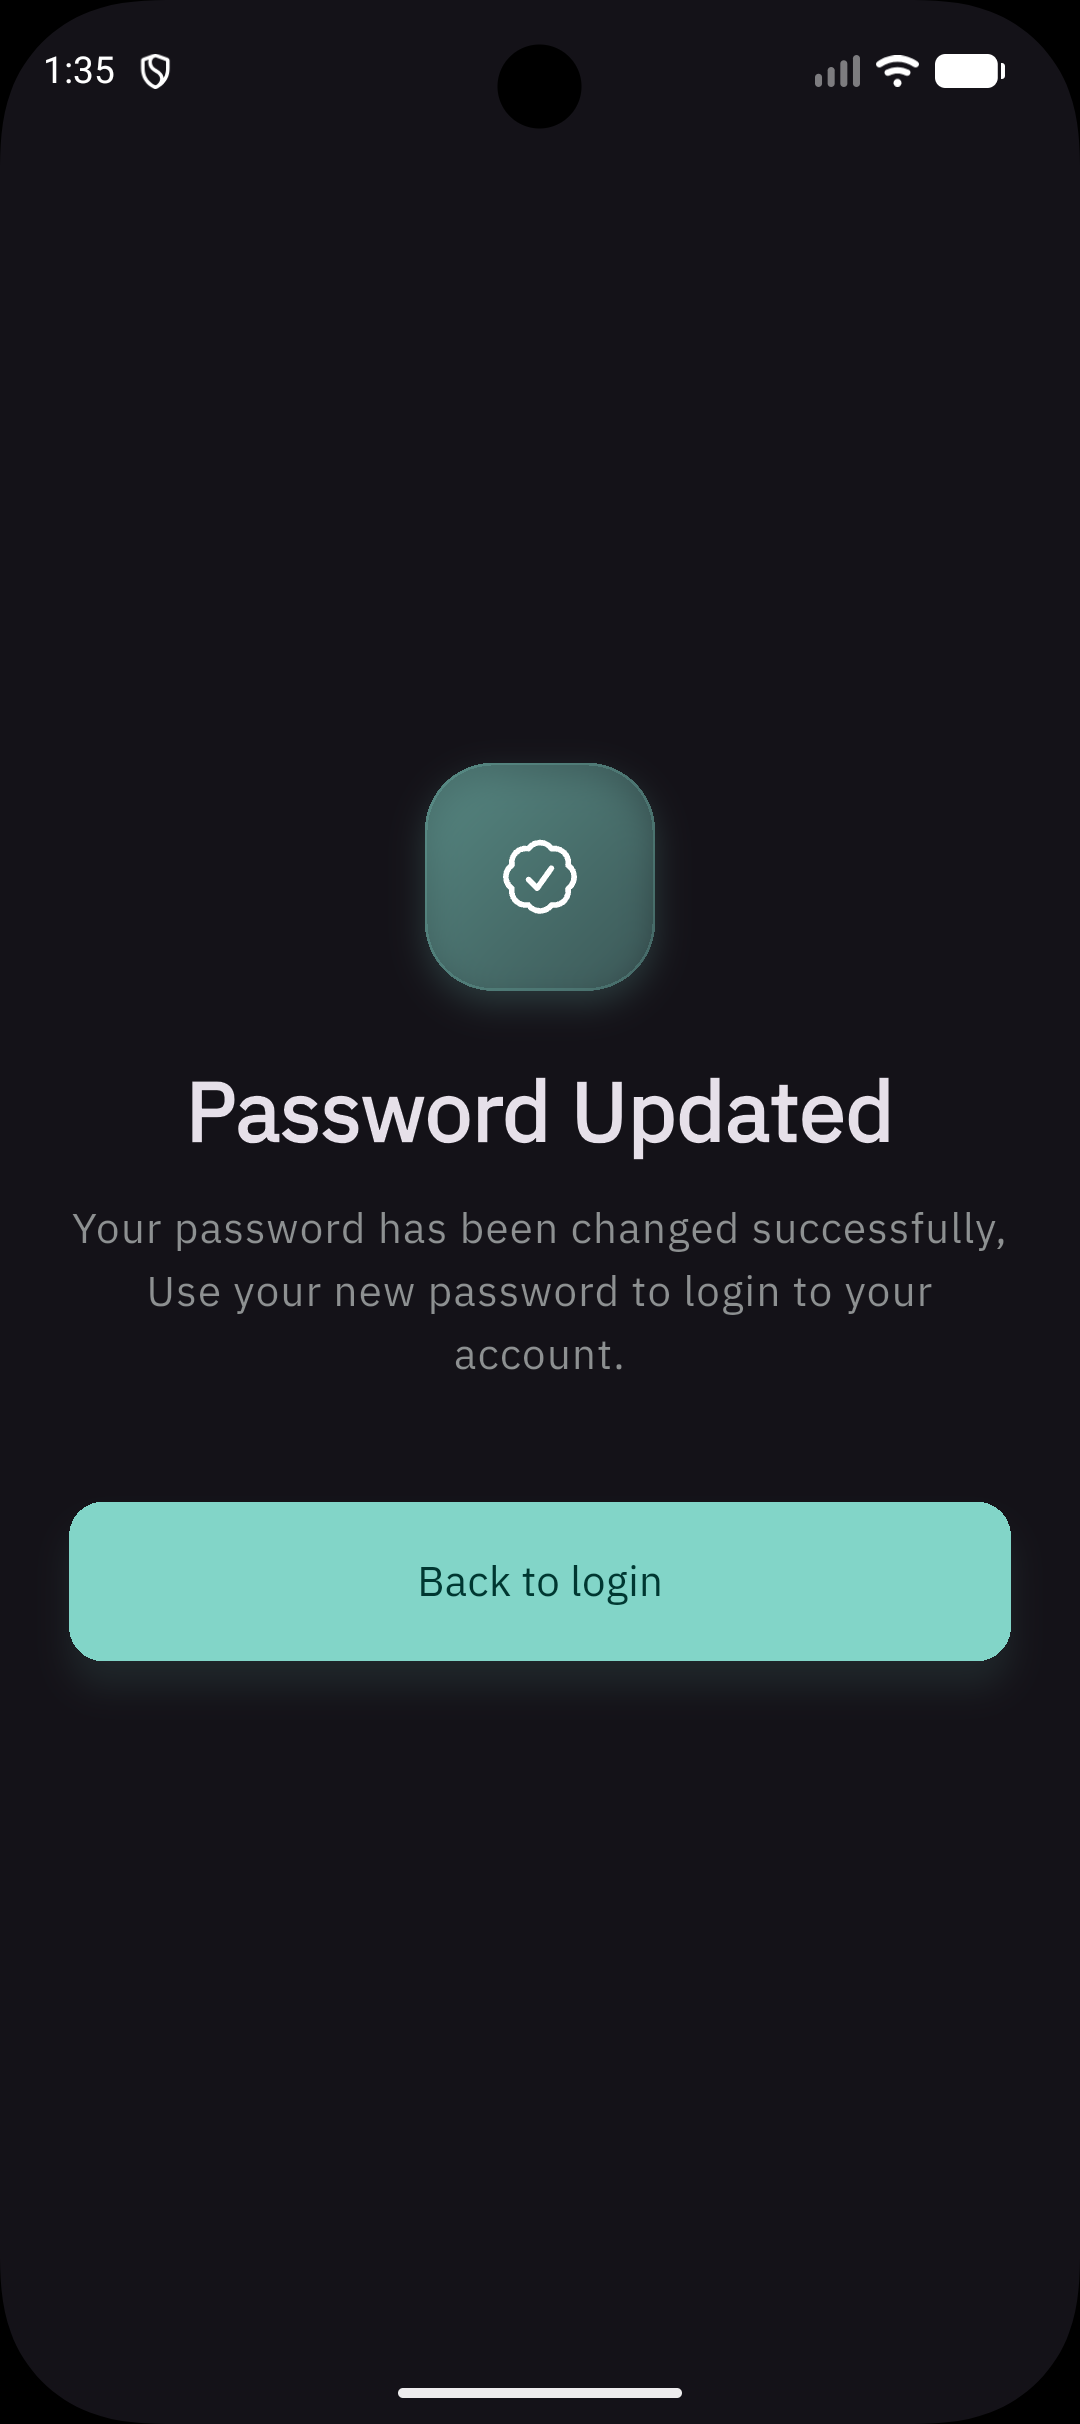
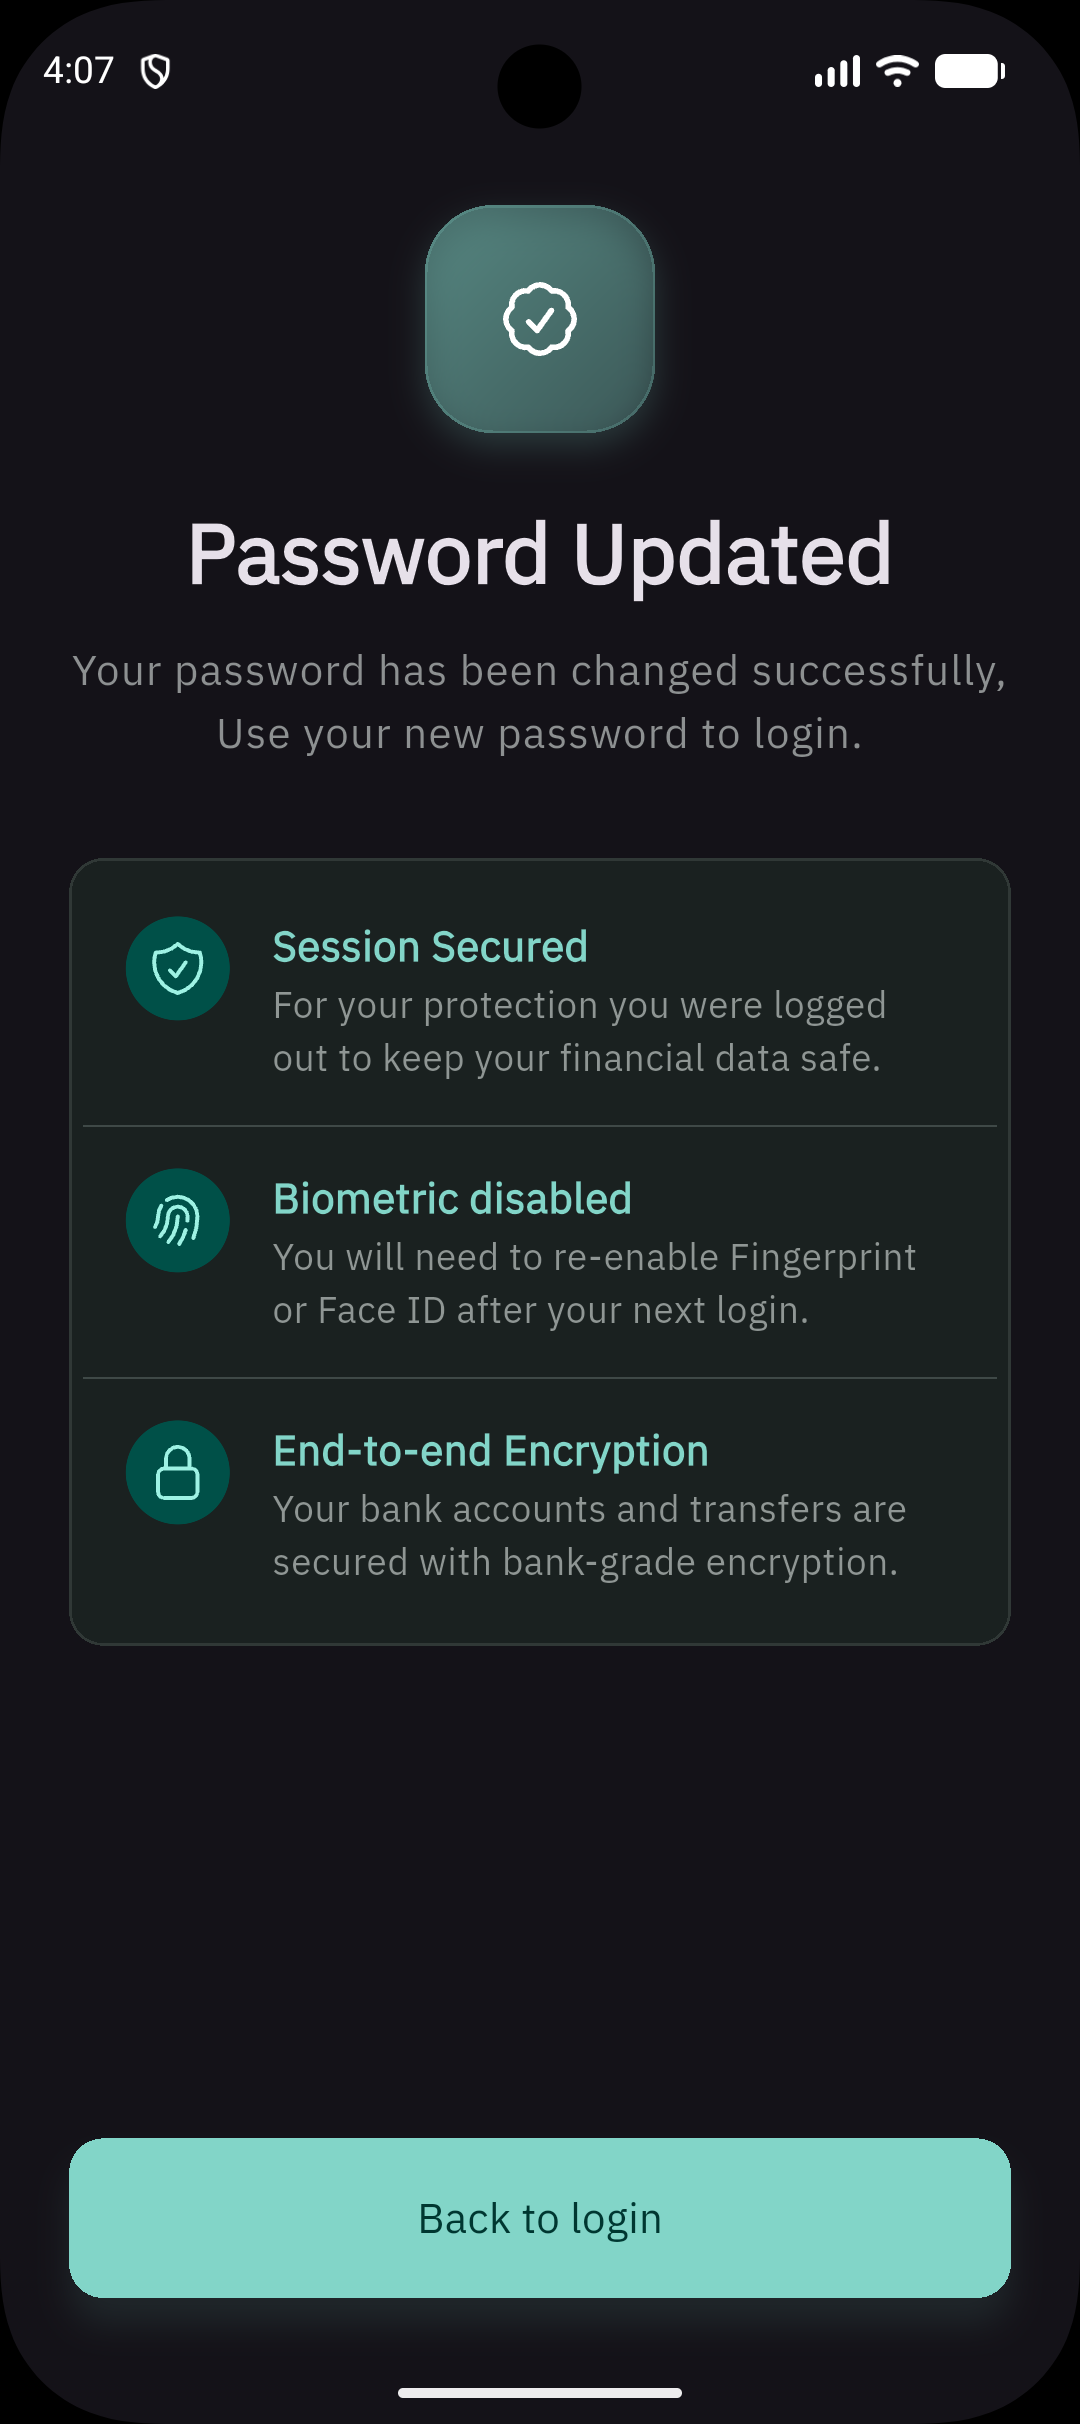
style: enhance reset_success_screen style and update it's screenshot in markdown.

diff --git a/lib/features/auth/presentation/view/pages/reset_success_page.dart b/lib/features/auth/presentation/view/pages/reset_success_page.dart
@@ -3,6 +3,7 @@ import 'package:flutter_screenutil/flutter_screenutil.dart';
 import 'package:go_router/go_router.dart';
 import 'package:heroicons/heroicons.dart';
 
+import '../../../../../core/extensions/context_extensions.dart';
 import '../../../../../core/forms/form_button.dart';
 import '../../../../../core/router/app_routes.dart';
 import '../widgets/auth_header.dart';
@@ -13,25 +14,91 @@ class ResetSuccessPage extends StatelessWidget {
   @override
   Widget build(BuildContext context) {
     return Scaffold(
-      body: Container(
-        padding: EdgeInsets.symmetric(horizontal: 24.0.w),
-        width: double.infinity,
-        child: Column(
-          crossAxisAlignment: .stretch,
-          mainAxisAlignment: .center,
-          children: [
-            AuthHeader(
-              title: "Password Updated",
-              subtitle:
-                  "Your password has been changed successfully, Use your new password to login to your account.",
-              icon: HeroIcon(.checkBadge, size: 32.0.r),
-            ),
-            40.0.verticalSpace,
-            FormButton(
-              label: "Back to login",
-              onPressed: () => context.go(AppRoutes.loginPath),
-            ),
-          ],
+      body: SafeArea(
+        child: Container(
+          padding: EdgeInsets.symmetric(vertical: 24.0, horizontal: 24.0.w),
+          width: double.infinity,
+          child: Column(
+            crossAxisAlignment: .stretch,
+            mainAxisAlignment: .center,
+            children: [
+              Expanded(
+                child: Column(
+                  children: [
+                    AuthHeader(
+                      title: "Password Updated",
+                      subtitle:
+                          "Your password has been changed successfully, Use your new password to login.",
+                      icon: HeroIcon(.checkBadge, size: 32.0.r),
+                    ),
+                    32.0.verticalSpace,
+                    Container(
+                      padding: EdgeInsets.symmetric(
+                        horizontal: 4.0.w,
+                        vertical: 12.0.h,
+                      ),
+                      decoration: BoxDecoration(
+                        color: context.colorScheme.surfaceContainer,
+                        borderRadius: .circular(12.0.r),
+                        border: BoxBorder.all(
+                          color: context.colorScheme.outline.withValues(
+                            alpha: 0.2,
+                          ),
+                        ),
+                      ),
+                      child: Column(
+                        children: [
+                          _buildSecurityItem(
+                            HeroIcons.shieldCheck,
+                            "Session Secured",
+                            "For your protection you were logged out to keep your financial data safe.",
+                          ),
+                          const Divider(),
+                          _buildSecurityItem(
+                            HeroIcons.fingerPrint,
+                            "Biometric disabled",
+                            "You will need to re-enable Fingerprint or Face ID after your next login.",
+                          ),
+                          const Divider(),
+                          _buildSecurityItem(
+                            HeroIcons.lockClosed,
+                            "End-to-end Encryption",
+                            "Your bank accounts and transfers are secured with bank-grade encryption.",
+                          ),
+                        ],
+                      ),
+                    ),
+                  ],
+                ),
+              ),
+              FormButton(
+                label: "Back to login",
+                onPressed: () => context.go(AppRoutes.loginPath),
+              ),
+            ],
+          ),
+        ),
+      ),
+    );
+  }
+
+  Widget _buildSecurityItem(HeroIcons icon, String title, String subtitle) {
+    return Builder(
+      builder: (context) => ListTile(
+        leading: CircleAvatar(child: HeroIcon(icon)),
+        titleAlignment: ListTileTitleAlignment.top,
+        title: Text(
+          title,
+          style: context.textTheme.titleMedium?.copyWith(
+            color: context.colorScheme.primary,
+            fontWeight: .bold,
+          ),
+        ),
+        subtitle: Text(
+          subtitle,
+          style: context.textTheme.bodyMedium?.copyWith(
+            color: context.colorScheme.onSurface.withValues(alpha: 0.6),
+          ),
         ),
       ),
     );

diff --git a/lib/features/auth/presentation/view/pages/reset_password_page.dart b/lib/features/auth/presentation/view/pages/reset_password_page.dart
@@ -2,6 +2,7 @@ import 'package:flutter/material.dart';
 import 'package:flutter_screenutil/flutter_screenutil.dart';
 import 'package:go_router/go_router.dart';
 import 'package:heroicons/heroicons.dart';
+import 'package:instashield_app_final/core/extensions/context_extensions.dart';
 import '../../../../../core/forms/password_field/password_field.dart';
 import '../../../../../core/router/app_routes.dart';
 import '../layouts/auth_layout.dart';
@@ -50,6 +51,12 @@ class _ResetPasswordPageState extends State<ResetPasswordPage> {
         context.go(AppRoutes.resetSuccess);
       },
       btnLabel: "Reset Password",
+      formExtra: Text(
+        "Both passwords must match",
+        style: context.textTheme.labelLarge?.copyWith(
+          color: context.colorScheme.onSurfaceVariant.withValues(alpha: 0.6),
+        ),
+      ),
     );
   }
 }

diff --git a/README.md b/README.md
@@ -4,12 +4,9 @@ Instant Payment Application
 
 ## 📱 Screenshots
 
-### 🔐  Auth Screens
-| Login | Register | Forget Password | Reset Password|
-|------|-----------|-----------------|---------------|
-|  <img src="assets/images/screens/login_screen.png" width="200"/> | <img src="assets/images/screens/register_screen.png" width="200"/> | <img src="assets/images/screens/forget_password_screen.png" width="200"/> | <img src="assets/images/screens/reset_password_screen.png" width="200"/>|
-
-| Reset Success |
------------------
-| <img src="assets/images/screens/reset_success_screen.png" width="200"/> |
-
+### 🔐 Auth Screens
+| Login | Register | Forget Password | Reset Password |
+| :---: | :---: | :---: | :---: |
+| <img src="assets/images/screens/login_screen.png" width="200"/> | <img src="assets/images/screens/register_screen.png" width="200"/> | <img src="assets/images/screens/forget_password_screen.png" width="200"/> | <img src="assets/images/screens/reset_password_screen.png" width="200"/> |
+| **Reset Success** | **Coming Soon** | **Coming Soon** | **Coming Soon** |
+| <img src="assets/images/screens/reset_success_screen.png" width="200"/> | *Working on it* | *Working on it* | *Working on it* |
